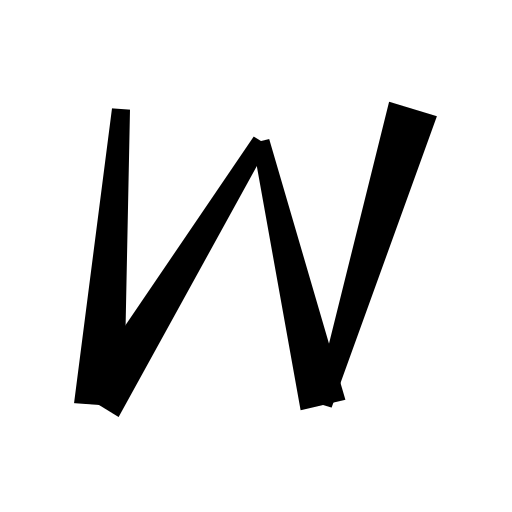
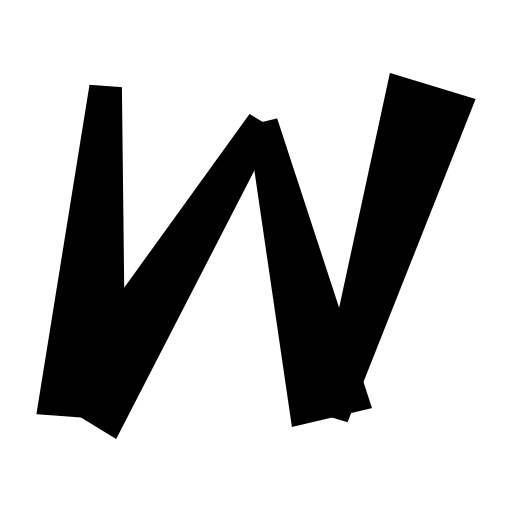
feat: bold menu bar W template

diff --git a/Assets/Brand/README.md b/Assets/Brand/README.md
@@ -23,10 +23,11 @@ metal brush stroke on a charcoal rounded tile.
 - `warren-app-icon.png`: 1024 × 1024 preview and general bitmap.
 - `Warren.icns`: macOS app icon.
 - `menubar-black.svg` / `menubar-white.svg`: source variants of the W on a
-  transparent background. The macOS menu bar uses a single template image
-  (`menubar-black-18.png` / `menubar-black-36.png`), which AppKit recolors
-  automatically for light and dark menu bars; `scripts/build-app.sh` installs
-  them into the app bundle as `menubar-template.png` and
+  transparent background. The macOS menu bar uses a single heavier template
+  variant (about 1.8× stroke width, still tapered) so the W stays visible at
+  18 pt; AppKit recolors it automatically for light and dark menu bars.
+  `scripts/build-app.sh` installs `menubar-black-18.png` /
+  `menubar-black-36.png` into the app bundle as `menubar-template.png` and
   `menubar-template@2x.png`.
 
 After modifying any source file, regenerate the derived assets:
